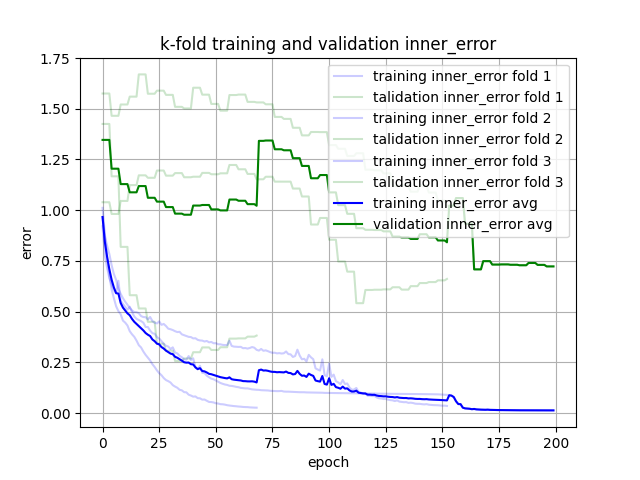
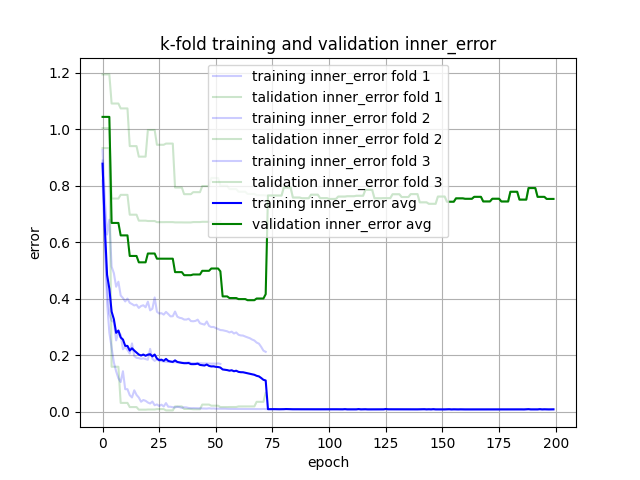
backtracking

diff --git a/network.py b/network.py
@@ -7,7 +7,7 @@ from utils import unison_shuffle
 from math import floor, ceil
 from utils import *
 from layer import *
-from schema import Schema, Optional, And
+from copy import deepcopy
 
 class Network:
     def __init__(
@@ -88,8 +88,9 @@ class Network:
             "Supported learning rate schedules are %s." % (params['learning_rate'], ["fixed", "linear_decay"]))
         if params['learning_rate_init'] <= 0.0:
             raise ValueError("learning_rate_init must be > 0, got %s. " % params['learning_rate_init'] )
-        if params['tau']  <= 0 or params['tau'] > params['epochs']:
-            raise ValueError("tau must be > 0 and <= epochs, got %s." % params['tau'] )
+        if params['learning_rate'] == "linear_decay":
+            if params['tau']  <= 0 or params['tau'] > params['epochs']:
+                raise ValueError("tau must be > 0 and <= epochs, got %s." % params['tau'] )
         if params['batch_size']  <= 0:
             raise ValueError("batch_size must be > 0, got %s." % params['batch_size'])
         if params['lambd'] < 0.0:
@@ -235,7 +236,6 @@ class Network:
         all_evalution_scores = []
 
         stopping = self.stopping_patience 
-
         #-----training loop-----
         # loop max-epoch times
         #   for each bacth       
@@ -292,7 +292,7 @@ class Network:
                     evaluation_score = self.evaluation_metric(y_val, predict_val)
             
             #train_error /= samples # average on all samples 
-            
+
             #-----stopping-----
             if epoch >= 10: # TODO: valutare se incrementare (minimo 30 epoche se errore cresce sempre)
                 if self.early_stopping:
@@ -310,7 +310,8 @@ class Network:
                     stopping -= 1
                 else:
                     stopping = self.stopping_patience
-            
+                    self.backtracked_network = deepcopy(self) # keeps track of the best model before early stopping (increasing error)
+
             all_train_errors.append(train_error)
             all_train_score.append(train_score)
             if self.early_stopping:
@@ -332,6 +333,7 @@ class Network:
         # plt.plot(all_evalution_scores, label="score",color="red")
         # plt.legend(loc="upper right")
         # plt.show()
+
         if self.early_stopping:
             return all_train_errors, all_val_errors, all_train_score, all_evalution_scores
         else:

diff --git a/monks.py b/monks.py
@@ -35,14 +35,20 @@ X_test, y_test = read_monks(TEST_PATH)
 
 # cross validation
 
-network = Network('tanh', True, batch_size=1, learning_rate_init=0.002, evaluation_metric='accuracy', verbose=True)
-cross_validation(network, X_train, y_train, X_test, y_test, k_out=3, k_inn=3, nested=True)
+# network = Network('tanh', True, batch_size=1, learning_rate_init=0.002, evaluation_metric='accuracy', verbose=True)
+# cross_validation(network, X_train, y_train, X_test, y_test, k_out=3, k_inn=3, nested=True)
+import time
 
-# net = Network(activation_out='tanh', classification=True, activation_hidden='tanh', epochs= 200, batch_size=1, 
-# learning_rate = "linear_decay", learning_rate_init=0.002, nesterov=True, early_stopping=True)
-# all_train_errors, tr_accuracy, _, _ = net.fit(X_train, y_train) # without early stopping
-# # #all_train_errors, all_val_errors, tr_accuracy, val_accuracy = net.fit(X_train, y_train) # with early stopping
-# pred = net.predict(X_test)
-# print(accuracy(y_pred=pred, y_true=y_test))
-#error_plot(all_train_errors, all_val_errors) # with early stopping
-#accuracy_plot(tr_accuracy, val_accuracy) # with early stopping
+start = time.time()
+
+net = Network(activation_out='tanh', classification=True, activation_hidden='tanh', epochs= 200, batch_size=1, 
+learning_rate = "linear_decay", learning_rate_init=0.002, nesterov=True, early_stopping=True)
+all_train_errors, tr_accuracy, _, _ = net.fit(X_train, y_train) 
+pred = net.predict(X_test)
+pred_backtracked = net.backtracked_network.predict(X_test)
+print(accuracy(y_true=y_test, y_pred=pred))
+print(f"backtracked: {accuracy(y_true=y_test, y_pred=pred_backtracked)}")
+
+end = time.time()
+print(end - start)
+

diff --git a/cross_validation.py b/cross_validation.py
@@ -1,17 +1,15 @@
 import numpy as np
-from sklearn.metrics import accuracy_score
-from network import Network
-from utils import fold_plot, flatten_pred, mean_and_std
+from utils import fold_plot, mean_and_std
 from sklearn.model_selection import StratifiedKFold
 
 def cross_validation(network, X_train, y_train, X_test, y_test, k_out, k_inn, nested):
-    # if k <= 1:
-    #     print('Number of folds k must be more than 1')
-    #     exit()
+    if k_out <= 1:
+        print('Number of folds k must be more than 1')
+        raise ValueError("k must be more than 1")
     if nested: resampling = "outer"
     else: resampling = "inner"
     #print("Total samples = {}".format(len(X_train)))
-    skf = StratifiedKFold(n_splits=k_out, shuffle=True) #REVIEW: non divide total samples / k StratifiedGroupKFold
+    skf = StratifiedKFold(n_splits=k_out, shuffle=True) 
 
     # init error and score vectors    
     tr_error_fold = []
@@ -33,7 +31,7 @@ def cross_validation(network, X_train, y_train, X_test, y_test, k_out, k_inn, ne
 
         #nested cross validation
         if nested:
-            cross_validation(network, X_train_fold, y_train_fold, X_test, y_test, k_inn, 0, False)
+            cross_validation(network, X_train_fold, y_train_fold, X_test, y_test, k_inn, None, False)
             network.layers = [] #TODO: ogni volta che si fa un fit layers = []
 
         #TODO: tune network based on the inner fold
